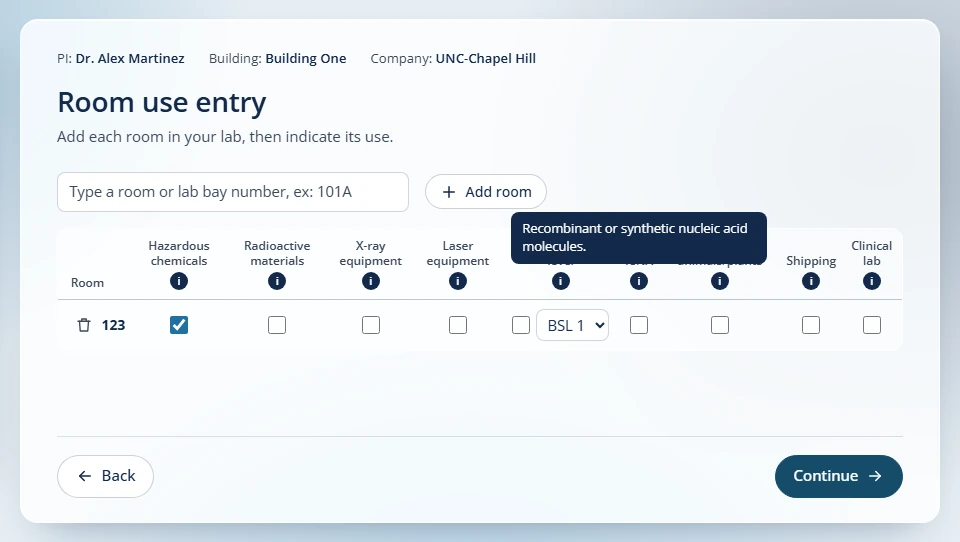
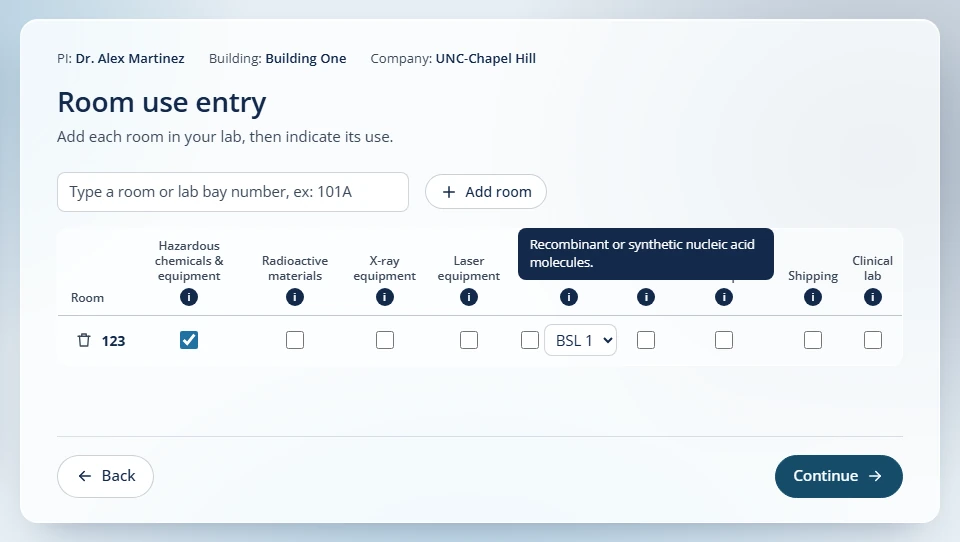
Lab safety plan case study: room-use column reads Hazardous chemicals & equipment

Changed region(s): [[0.1562, 0.3838, 0.9375, 0.6494], [0.0625, 0.5904, 0.125, 0.6494], [0.0625, 0.5018, 0.125, 0.5609]]

diff --git a/ux-revisited/prototype/index.html b/ux-revisited/prototype/index.html
@@ -616,7 +616,7 @@ P.building = () => `
   ${steps("menu-confirm", "rooms")}`;
 
 const HAZ = [
-  ["chem", "Hazardous chemicals", "Any chemical with a hazard label, or equipment that uses one."],
+  ["chem", "Hazardous chemicals &amp; equipment", "Any chemical with a hazard label, or equipment that uses one."],
   ["rad", "Radioactive materials", "Radioisotopes, sealed sources, or equipment that contains them."],
   ["xray", "X-ray equipment", "Diffractometers, cabinet X-ray units, and other X-ray producing equipment."],
   ["laser", "Laser equipment", "Lasers used for research, not laser pointers or barcode scanners."],
@@ -644,7 +644,7 @@ P.rooms = () => `
           <td><span class="row" style="gap:.3rem;flex-wrap:nowrap"><button class="icon-btn" data-del-room="${i}" aria-label="Remove room ${esc(r.num)}">${ICON.trash}</button><b>${esc(r.num)}</b></span></td>
           ${HAZ.map(([k, l]) => `<td class="c">${k === "chem" || S.allUses
             ? `<span class="row" style="gap:.35rem;flex-wrap:nowrap;justify-content:center"><input type="checkbox" data-haz="${i}:${k}" ${r.haz[k] ? "checked" : ""} aria-label="${l}, room ${esc(r.num)}">${k === "bsl" ? `<select aria-label="Biosafety level, room ${esc(r.num)}" style="width:auto;min-height:32px;padding:.2rem .4rem"><option>BSL 1</option><option>BSL 2</option><option>BSL 3</option></select>` : ""}</span>`
-            : `<span class="demo-off" role="img" tabindex="0" data-tip="Demo: only hazardous chemicals can be selected in this prototype." aria-label="${l}, room ${esc(r.num)}: not available in this demo"><input type="checkbox" disabled tabindex="-1" aria-hidden="true">${k === "bsl" ? `<select disabled tabindex="-1" aria-hidden="true" style="width:auto;min-height:32px;padding:.2rem .4rem"><option>BSL 1</option></select>` : ""}</span>`}</td>`).join("")}
+            : `<span class="demo-off" role="img" tabindex="0" data-tip="Demo: only hazardous chemicals &amp; equipment can be selected in this prototype." aria-label="${l}, room ${esc(r.num)}: not available in this demo"><input type="checkbox" disabled tabindex="-1" aria-hidden="true">${k === "bsl" ? `<select disabled tabindex="-1" aria-hidden="true" style="width:auto;min-height:32px;padding:.2rem .4rem"><option>BSL 1</option></select>` : ""}</span>`}</td>`).join("")}
         </tr>`).join("") : `<tr><td colspan="10" class="empty">No rooms yet. Type a room or lab bay number above to add it.</td></tr>`}</tbody>
       </table>
     </div>
